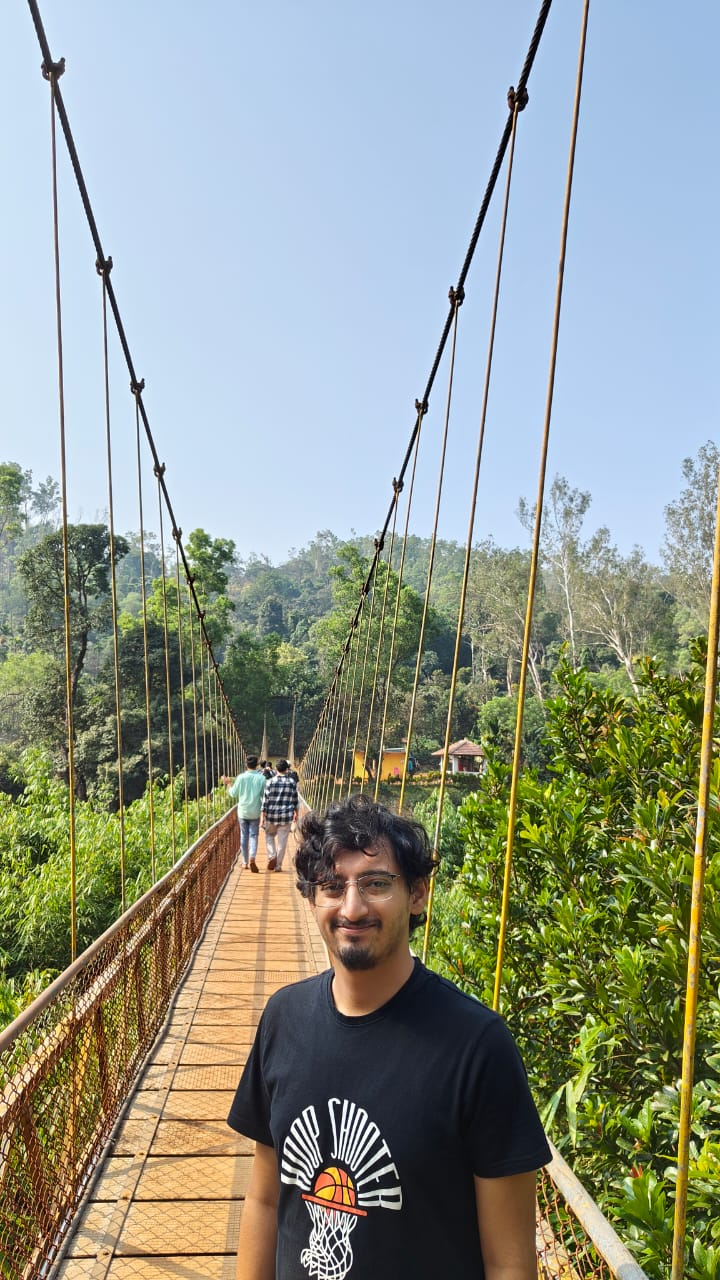
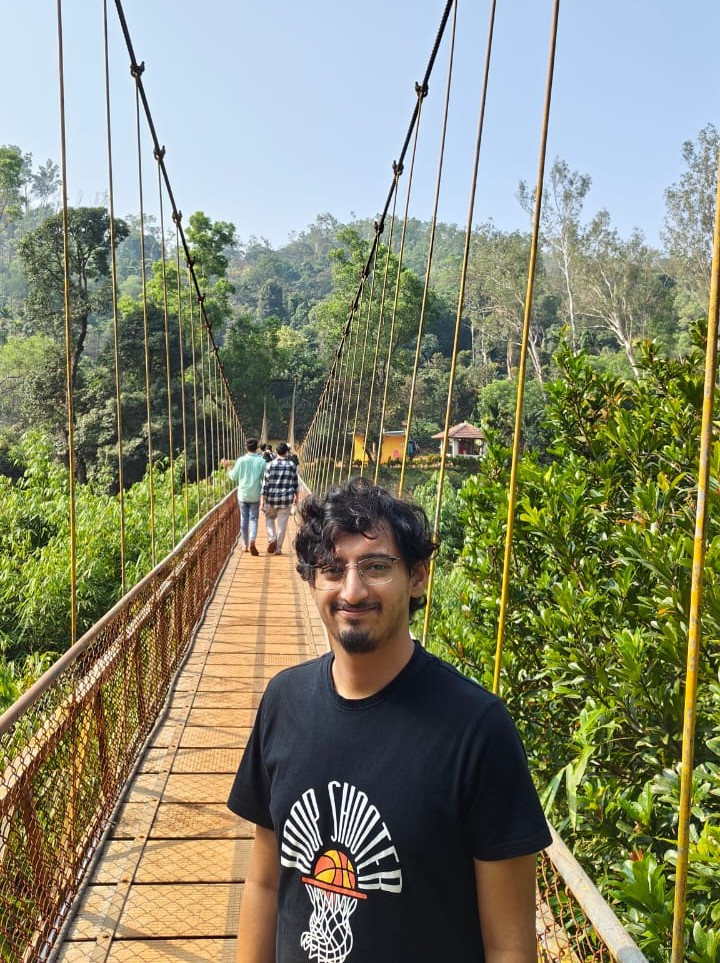
Updated the team photo in the about us section

diff --git a/src/v1/HomePageComponents/AboutSection.tsx b/src/v1/HomePageComponents/AboutSection.tsx
@@ -28,7 +28,7 @@ export function AboutSection() {
           </div>
           <div className="relative">
             <img
-              src="/assets/gimages/image3.jpg"
+              src="/assets/Team Photo.jpg"
               alt="Team working on satellite"
               className="rounded-lg shadow-xl"
             />
